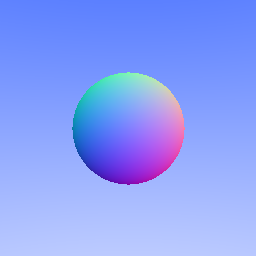
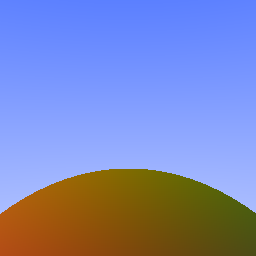
A4: skeleton code for hit methods in each primitive type

diff --git a/A4/A4.cpp b/A4/A4.cpp
@@ -1,8 +1,10 @@
 // Termm--Winter 2023
 
 #include <glm/ext.hpp>
+#include <bits/stdc++.h>
 
 #include "A4.hpp"
+#include "polyroots.hpp"
 
 using namespace std;
 using namespace glm;
@@ -10,15 +12,23 @@ using namespace glm;
 float hitSphere(const vec3 &center, float radius, const Ray &ray) {
 	vec3 oc = ray.getOrigin() - center;
 
-	float a = dot(ray.getDirection(), ray.getDirection());
-	float b = 2.0f * dot(oc, ray.getDirection());
-	float c = dot(oc, oc) - radius*radius;
+	double A = dot(ray.getDirection(), ray.getDirection());
+	double B = 2.0f * dot(oc, ray.getDirection());
+	double C = dot(oc, oc) - radius*radius;
 
-	float discriminant = b*b - 4.0*a*c;
+	// float discriminant = b*b - 4.0*a*c;
 
-	if (discriminant < 0) return -1.0;
+	// if (discriminant < 0) return -1.0;
 
-	return (-b - sqrt(discriminant)) / (2.0 * a);
+	// return (-b - sqrt(discriminant)) / (2.0 * a);
+
+	array<double, 2> roots;
+
+	size_t numberOfRoots = quadraticRoots(A, B, C, roots.data());
+
+	if (numberOfRoots == 0) return -1.0;
+
+	return roots[0] < roots[1] ? roots[0] : roots[1];
 }
 
 
@@ -27,7 +37,7 @@ vec3 rayColor(const Ray &ray) {
 	// 	return vec3(1.0, 0.0, 0.0);
 	// }
 
-	float t = hitSphere(vec3(0, 0, 750), 10, ray);
+	float t = hitSphere(vec3(0, -1200, -500), 1000, ray);
 
 	if (t > 0.0) {
 		vec3 N = normalize(ray.pointAtParameter(t) - vec3(0,0,750));
@@ -88,9 +98,10 @@ void A4_Render(
 	// vec3 vertical(0.0, 2.0, 0.0);
 	// vec3 origin(0.0, 0.0, 0.0);
 
+	// Is view "Lookat"? or is the view already a vector?
 	vec3 vz = normalize(view-eye);
-	vec3 vx = normalize(cross(vz, up));
-	vec3 vy = cross(vx, vz);
+	vec3 vx = normalize(cross(up, vz));
+	vec3 vy = cross(vz, vx);
 	float d = (h / 2) / tan(radians(fovy / 2));
 
 	vec3 lowerLeftCorner = vz*d - vx*((float)h/2) - vy*((float)h/2);

diff --git a/A4/Primitive.hpp b/A4/Primitive.hpp
@@ -3,20 +3,30 @@
 #pragma once
 
 #include <glm/glm.hpp>
+#include "Ray.hpp"
+
+struct HitRecord {
+  float t;
+  glm::vec3 p;
+  glm::vec3 normal;
+};
 
 class Primitive {
 public:
   virtual ~Primitive();
+  virtual bool hit(const Ray &ray, float tmin, float tmax, HitRecord &record) const = 0;
 };
 
 class Sphere : public Primitive {
 public:
   virtual ~Sphere();
+  bool hit(const Ray &ray, float tmin, float tmax, HitRecord &record) const;
 };
 
 class Cube : public Primitive {
 public:
   virtual ~Cube();
+  bool hit(const Ray &ray, float tmin, float tmax, HitRecord &record) const;
 };
 
 class NonhierSphere : public Primitive {
@@ -26,6 +36,8 @@ public:
   {
   }
   virtual ~NonhierSphere();
+  bool hit(const Ray &ray, float tmin, float tmax, HitRecord &record) const;
+  // virtual bool hit(const Ray &ray, float t_min, float t_max, HitRecord &record) const;
 
 private:
   glm::vec3 m_pos;
@@ -40,6 +52,7 @@ public:
   }
   
   virtual ~NonhierBox();
+  bool hit(const Ray &ray, float tmin, float tmax, HitRecord &record) const;
 
 private:
   glm::vec3 m_pos;

diff --git a/A4/Primitive.cpp b/A4/Primitive.cpp
@@ -10,14 +10,34 @@ Sphere::~Sphere()
 {
 }
 
+bool Sphere::hit(const Ray &ray, float t_min, float t_max, HitRecord &record) const
+{
+    return false;
+}
+
 Cube::~Cube()
 {
+}
+
+bool Cube::hit(const Ray &ray, float t_min, float t_max, HitRecord &record) const
+{
+    return false;
 }
 
 NonhierSphere::~NonhierSphere()
 {
 }
 
+bool NonhierSphere::hit(const Ray &ray, float t_min, float t_max, HitRecord &record) const
+{
+    return false;
+}
+
 NonhierBox::~NonhierBox()
 {
+}
+
+bool NonhierBox::hit(const Ray &ray, float t_min, float t_max, HitRecord &record) const
+{
+    return false;
 }

diff --git a/A4/Mesh.hpp b/A4/Mesh.hpp
@@ -32,7 +32,7 @@ struct Triangle
 class Mesh : public Primitive {
 public:
   Mesh( const std::string& fname );
-  
+  bool hit(const Ray &ray, float tmin, float tmax, HitRecord &record) const;  
 private:
 	std::vector<glm::vec3> m_vertices;
 	std::vector<Triangle> m_faces;

diff --git a/A4/Mesh.cpp b/A4/Mesh.cpp
@@ -8,6 +8,10 @@
 // #include "cs488-framework/ObjFileDecoder.hpp"
 #include "Mesh.hpp"
 
+bool Mesh::hit(const Ray &ray, float tmin, float tmax, HitRecord &record) const {
+	return false;
+}
+
 Mesh::Mesh( const std::string& fname )
 	: m_vertices()
 	, m_faces()
